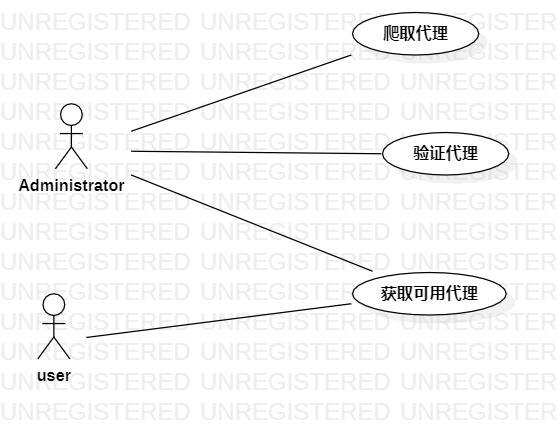
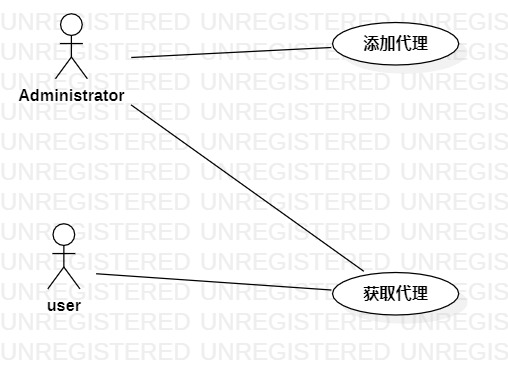
修改功能、用例规约、活动图

diff --git a/students/1714080901143/lab2.md b/students/1714080901143/lab2.md
@@ -18,18 +18,17 @@
     选题：#364 ip代理池
     功能：
     1. 从代理网站获取免费代理ip，保存代理ip
-    2. 验证已经存进数据库中的代理ip是否仍是有效，保存有效代理
-    3. 提供有效的代理ip
+    2. 提供有效的代理ip
     ```
 
 2. 找出建模选题中的用例和参与者
 
     ```
-    用例：爬取代理、验证代理、获取可用代理
+    用例：添加代理、获取代理
     参与者：Administrator、user
     ```
 
-3. 在StarUML中画出用例图，首先画出用例：爬取代理、验证代理、获取可用代理，接着，画出参与者：Administrator，user，最后将参与者与相关用例用直线连起来
+3. 在StarUML中画出用例图，首先画出用例：添加代理、获取代理，接着，画出参与者：Administrator，user，最后将参与者与相关用例用直线连起来
 
 4. 导出用例图，并使用markdown编写实验报告，在实验报告中使用导出的用例图
 
@@ -40,46 +39,30 @@
 ![用例图](./Lab2_UseCaseDiagram.jpg)  
 图1. ip代理池用例图
 
-## 表1：爬取代理用例规约
+## 表1：添加代理用例规约
 
 用例编号  | UC01
 -|:-
-用例名称  | 爬取代理 
+用例名称  | 添加代理 
 前置条件  |         
 后置条件  |         
-基本流程  | 1.Adminstrator输入爬取命令
-~| 2.系统检查命令正确，执行爬取命令
-~| 3.系统访问代理网站，访问页面成功，提取代理ip  
-~| 4.系统保存代理 
-~| 5.系统提示“成功”  
-扩展流程  | 2.1 系统检查发现命令错误，提示“命令错误” 
-~| 3.1 系统访问目标网站出错，提示“访问错误” 
-
-## 表2：验证代理用例规约
-
-用例编号  | UC02   
--|:-
-用例名称  | 验证代理 
-前置条件  |      
-后置条件  |      
-基本流程  | 1.Adminstrator输入验证命令
-~| 2.系统检查命令正确，执行验证命令 
-~| 3.系统使用代理ip访问网页，访问网页成功，保存有效代理
-~| 4.系统提示“成功”
-扩展流程  | 2.1 系统检查发现命令错误，提示“命令错误” 
-~| 3.1 系统使用代理ip，访问网页，访问网页失败，提示“代理无效”
+基本流程  | 1.Adminstrator点击添加代理按钮
+~| 2.系统返回添加代理页面
+~| 3.Adminstrator输入代理网站，点击确定按钮
+~| 4.系统访问代理网站，访问页面成功，提取代理ip  
+~| 5.系统保存代理 
+~| 6.系统提示“添加成功”  
+扩展流程  | 4.1 系统访问目标网站出错，提示“访问错误”  
 
 
-## 表3：获取可用代理用例规约  
+## 表2：获取代理用例规约  
 
 用例编号  | UC03
 -|:-
-用例名称  | 获取可用代理  
+用例名称  | 获取代理  
 前置条件  |       
 后置条件  |         
-基本流程  | 1.Adminstrator或user输入获取代理命令      
-~| 2.系统检查命令正确，执行获取命令 
-~| 3.系统查询代理，查询成功，取出代理 
-~| 4.系统提示“成功”
-扩展流程  | 2.1 系统检查发现命令错误，提示“命令错误”
-~| 3.1  系统查询失败，提示“无可获取代理”  
+基本流程  | 1.Adminstrator或user点击获取按钮      
+~| 2.系统查询代理，查询结果不为空，返回代理 
+~| 3.系统提示“获取成功” 
+扩展流程  | 2.1  查询结果为空，提示“无可获取代理” 

diff --git a/students/1714080901143/lab3.md b/students/1714080901143/lab3.md
@@ -12,7 +12,7 @@
 
 ## 三、实验步骤
 
-1.  打开StarUml，创建活动图，命名为爬取代理的活动图
+1.  打开StarUml，创建活动图，命名为爬添加代理的活动图
 2.  添加Initial和Final，表示开始和结束
 3.  根据用例规约的流程添加相应的Action，
 4.  如果有扩展流程，则添加Decision
@@ -21,17 +21,14 @@
 7.  在画图过程完善用例规约
 8.  调整图标的位置使连线不交叉
 9.  导出活动图为jpg文件
-10.  根据以上步骤，创建出验证代理的活动图和获取可用代理的活动图
+10.  根据以上步骤，创建出获取代理的活动图
 
 ## 四、画图要点
 
 ## 五、实验结果
 
 ![爬取代理的活动图](./lab3_1.jpg)  
-图1. 爬取代理的活动图
+图1. 添加代理的活动图
 
 ![验证代理的活动图](./lab3_2.jpg)  
-图2. 验证代理的活动图
-
-![获取可用代理的活动图](./lab3_3.jpg)  
-图3. 获取可用代理的活动图
+图2. 获取代理的活动图
